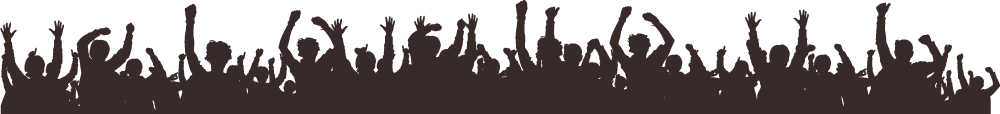
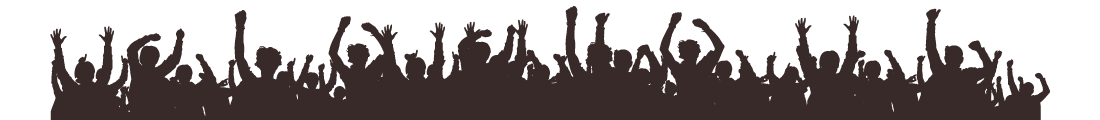
Parallax candy!

diff --git a/public/javascripts/jquery.jparallax.min.js b/public/javascripts/jquery.jparallax.min.js
@@ -1,0 +1,39 @@
+if (!jQuery.event.special.frame) {
+
+// jquery.events.frame.js
+// 1.1 - lite
+// Stephen Band
+//
+// Project home:
+// webdev.stephband.info/events/frame/
+//
+// Source:
+// http://github.com/stephband/jquery.event.frame
+
+(function(d,h){function i(a,b){function e(){f.frameCount++;a.call(f)}var f=this,g;this.frameDuration=b||25;this.frameCount=-1;this.start=function(){e();g=setInterval(e,this.frameDuration)};this.stop=function(){clearInterval(g);g=null}}function j(){var a=d.event.special.frame.handler,b=d.Event("frame"),e=this.array,f=e.length;for(b.frameCount=this.frameCount;f--;)a.call(e[f],b)}var c;if(!d.event.special.frame)d.event.special.frame={setup:function(a){if(c)c.array.push(this);else{c=new i(j,a&&a.frameDuration);
+c.array=[this];var b=setTimeout(function(){c.start();clearTimeout(b);b=null},0)}},teardown:function(){for(var a=c.array,b=a.length;b--;)if(a[b]===this){a.splice(b,1);break}if(a.length===0){c.stop();c=h}},handler:function(){d.event.handle.apply(this,arguments)}}})(jQuery);
+
+}
+
+// jquery.jparallax.js
+// 1.0
+// Stephen Band
+//
+// Project and documentation site:
+// webdev.stephband.info/jparallax/
+//
+// Repository:
+// github.com/stephband/jparallax
+//
+// Dependencies:
+// jquery.event.frame
+
+(function(l,t){function y(i){return this.lib[i]}function q(i){return typeof i==="boolean"?i:!!parseFloat(i)}function r(i,b){var k=[q(i.xparallax),q(i.yparallax)];this.ontarget=false;this.decay=i.decay;this.pointer=b||[0.5,0.5];this.update=function(e,a){if(this.ontarget)this.pointer=e;else if((!k[0]||u(e[0]-this.pointer[0])<a[0])&&(!k[1]||u(e[1]-this.pointer[1])<a[1])){this.ontarget=true;this.pointer=e}else{a=[];for(var g=2;g--;)if(k[g])a[g]=e[g]+this.decay*(this.pointer[g]-e[g]);this.pointer=a}}}
+function z(i,b){var k=this,e=i instanceof l?i:l(i),a=[q(b.xparallax),q(b.yparallax)],g=0,d;this.pointer=[0,0];this.active=false;this.activeOutside=b&&b.activeOutside||false;this.update=function(h){var j=this.pos,c=this.size,f=[],m=2;if(g>0){if(g===2){g=0;if(d)h=d}for(;m--;)if(a[m]){f[m]=(h[m]-j[m])/c[m];f[m]=f[m]<0?0:f[m]>1?1:f[m]}this.active=true;this.pointer=f}else this.active=false};this.updateSize=function(){var h=e.width(),j=e.height();k.size=[h,j];k.threshold=[1/h,1/j]};this.updatePos=function(){var h=
+e.offset()||{left:0,top:0},j=parseInt(e.css("borderLeftWidth"))+parseInt(e.css("paddingLeft")),c=parseInt(e.css("borderTopWidth"))+parseInt(e.css("paddingTop"));k.pos=[h.left+j,h.top+c]};l(window).bind("resize",k.updateSize).bind("resize",k.updatePos);e.bind("mouseenter",function(){g=1}).bind("mouseleave",function(h){g=2;d=[h.pageX,h.pageY]});this.updateSize();this.updatePos()}function A(i,b){var k=[],e=[],a=[],g=[];this.update=function(d){for(var h=[],j,c,f=2,m={};f--;)if(e[f]){h[f]=e[f]*d[f]+a[f];
+if(k[f]){j=g[f];c=h[f]*-1}else{j=h[f]*100+"%";c=h[f]*this.size[f]*-1}if(f===0){m.left=j;m.marginLeft=c}else{m.top=j;m.marginTop=c}}i.css(m)};this.setParallax=function(d,h,j,c){d=[d||b.xparallax,h||b.yparallax];j=[j||b.xorigin,c||b.yorigin];for(c=2;c--;){k[c]=o.px.test(d[c]);if(typeof j[c]==="string")j[c]=o.percent.test(j[c])?parseFloat(j[c])/100:v[j[c]]||1;if(k[c]){e[c]=parseInt(d[c]);a[c]=j[c]*(this.size[c]-e[c]);g[c]=j[c]*100+"%"}else{e[c]=d[c]===true?1:o.percent.test(d[c])?parseFloat(d[c])/100:
+d[c];a[c]=e[c]?j[c]*(1-e[c]):0}}};this.getPointer=function(){for(var d=i.offsetParent(),h=i.position(),j=[],c=[],f=2;f--;){j[f]=k[f]?0:h[f===0?"left":"top"]/(d[f===0?"outerWidth":"outerHeight"]()-this.size[f]);c[f]=(j[f]-a[f])/e[f]}return c};this.setSize=function(d,h){this.size=[d||i.outerWidth(),h||i.outerHeight()]};this.setSize(b.width,b.height);this.setParallax(b.xparallax,b.yparallax,b.xorigin,b.yorigin)}function s(i){var b=l(this),k=i.data,e=b.data(n),a=k.port,g=k.mouse,d=e.mouse;if(k.timeStamp!==
+i.timeStamp){k.timeStamp=i.timeStamp;a.update(w);if(a.active||!g.ontarget)g.update(a.pointer,a.threshold)}if(d){d.update(e.freeze?e.freeze.pointer:a.pointer,a.threshold);if(d.ontarget){delete e.mouse;e.freeze&&b.unbind(p).addClass(k.freezeClass)}g=d}else g.ontarget&&!a.active&&b.unbind(p);e.layer.update(g.pointer)}var n="parallax",x={mouseport:"body",xparallax:true,yparallax:true,xorigin:0.5,yorigin:0.5,decay:0.66,frameDuration:30,freezeClass:"freeze"},v={left:0,top:0,middle:0.5,center:0.5,right:1,
+bottom:1},o={px:/^\d+\s?px$/,percent:/^\d+\s?%$/},p="frame."+n,u=Math.abs,w=[0,0];y.lib=v;l.fn[n]=function(i){var b=l.extend({},l.fn[n].options,i),k=arguments,e=this;console.log(b.mouseport);if(!(b.mouseport instanceof l))b.mouseport=l(b.mouseport);console.log(b.mouseport);b.port=new z(b.mouseport,b);b.mouse=new r(b);b.mouseport.bind("mouseenter",function(){b.mouse.ontarget=false;e.each(function(){var a=l(this);a.data(n).freeze||a.bind(p,b,s)})});return e.bind("freeze",function(a){var g=l(this),d=
+g.data(n),h=d.mouse||d.freeze||b.mouse,j=o.percent.exec(a.x)?parseFloat(a.x.replace(/%$/,""))/100:a.x||h.pointer[0],c=o.percent.exec(a.y)?parseFloat(a.y.replace(/%$/,""))/100:a.y||h.pointer[1];a=a.decay;d.freeze={pointer:[j,c]};d.mouse=new r(b,h.pointer);if(a!==t)d.mouse.decay=a;g.bind(p,b,s)}).bind("unfreeze",function(a){var g=l(this),d=g.data(n);a=a.decay;var h;if(d.freeze){h=d.mouse?d.mouse.pointer:d.freeze.pointer;d.mouse=new r(b);d.mouse.pointer=h;if(a!==t)d.mouse.decay=a;delete d.freeze;g.removeClass(x.freezeClass).bind(p,
+b,s)}}).each(function(a){var g=l(this);a=k[a+1]?l.extend({},b,k[a+1]):b;var d=new A(g,a);g.data(n,{layer:d,mouse:new r(a,d.getPointer())})})};l.fn[n].options=x;l(document).ready(function(){l(document).mousemove(function(i){w=[i.pageX,i.pageY]})})})(jQuery);

diff --git a/public/stylesheets/base.css b/public/stylesheets/base.css
@@ -108,11 +108,24 @@ body {
       #header-wrapper #header p#ruby-link a {
         padding-left: 22px;
         background: url("/images/icon-browser.png") no-repeat; }
-  #header-wrapper #crowd-header {
+  #header-wrapper #crowd-header-viewport {
+    position: relative;
+    overflow: hidden;
     margin: 0 auto;
-    width: 1075px;
-    height: 144px;
-    background: url("/images/crowd-header.png") center no-repeat; }
+    width: 1070px;
+    height: 140px; }
+    #header-wrapper #crowd-header-viewport #crowd-header, #header-wrapper #crowd-header-viewport #crowd-header2 {
+      position: absolute; }
+    #header-wrapper #crowd-header-viewport #crowd-header {
+      width: 1075px;
+      height: 144px;
+      background: url("/images/crowd-header.png") center no-repeat;
+      z-index: 3; }
+    #header-wrapper #crowd-header-viewport #crowd-header2 {
+      width: 1100px;
+      height: 160px;
+      background: url("/images/crowd-header2.png") center no-repeat;
+      z-index: 2; }
 
 #hero {
   background: #392a2a; }
@@ -232,7 +245,7 @@ body {
 
 #footer {
   text-align: center;
-  background: url("/images/bg-footer-gradient.jpg") top repeat-x; }
+  background: url("/images/bg-footer-gradient.jpg") bottom repeat-x; }
   #footer #footer-logo {
     margin: 0 auto 15px auto;
     width: 20px;
@@ -243,11 +256,25 @@ body {
     padding-bottom: 5px; }
     #footer p#copyright {
       font-size: 14px; }
-  #footer #crowd-footer {
-    width: 1000px;
-    height: 114px;
+  #footer #crowd-footer-viewport {
+    position: relative;
+    overflow: hidden;
+    width: 1090px;
+    height: 116px;
     margin-top: 20px;
-    background: url("/images/crowd-footer.png") center no-repeat; }
+    margin-left: -50px; }
+    #footer #crowd-footer-viewport #crowd-footer, #footer #crowd-footer-viewport #crowd-footer2 {
+      position: absolute; }
+    #footer #crowd-footer-viewport #crowd-footer {
+      width: 1100px;
+      height: 120px;
+      background: url("/images/crowd-footer.png") center no-repeat;
+      z-index: 3; }
+    #footer #crowd-footer-viewport #crowd-footer2 {
+      width: 1110px;
+      height: 125px;
+      background: url("/images/crowd-footer2.png") center no-repeat;
+      z-index: 2; }
 
 /*------------------------------
  *  portrait slider

diff --git a/app/stylesheets/base.sass b/app/stylesheets/base.sass
@@ -71,11 +71,24 @@ body
       a
         padding-left: 22px
         background: url("/images/icon-browser.png") no-repeat
-  #crowd-header
+  #crowd-header-viewport
+    position: relative
+    overflow: hidden
     margin: 0 auto
-    width: 1075px
-    height: 144px
-    background: url("/images/crowd-header.png") center no-repeat
+    width: 1070px
+    height: 140px
+    #crowd-header, #crowd-header2
+      position: absolute
+    #crowd-header
+      width: 1075px
+      height: 144px
+      background: url("/images/crowd-header.png") center no-repeat
+      z-index: 3
+    #crowd-header2
+      width: 1100px
+      height: 160px
+      background: url("/images/crowd-header2.png") center no-repeat
+      z-index: 2
 
 #hero
   h2
@@ -200,7 +213,7 @@ body
 
 #footer
   text-align: center
-  background: url("/images/bg-footer-gradient.jpg") top repeat-x
+  background: url("/images/bg-footer-gradient.jpg") bottom repeat-x
   #footer-logo
     margin: 0 auto 15px auto
     width: 20px
@@ -211,11 +224,25 @@ body
     padding-bottom: 5px
     &#copyright
       font-size: 14px
-  #crowd-footer
-    width: 1000px
-    height: 114px
+  #crowd-footer-viewport
+    position: relative
+    overflow: hidden
+    width: 1090px
+    height: 116px
     margin-top: 20px
-    background: url("/images/crowd-footer.png") center no-repeat
+    margin-left: -50px
+    #crowd-footer, #crowd-footer2
+      position: absolute
+    #crowd-footer
+      width: 1100px
+      height: 120px
+      background: url("/images/crowd-footer.png") center no-repeat
+      z-index: 3
+    #crowd-footer2
+      width: 1110px
+      height: 125px
+      background: url("/images/crowd-footer2.png") center no-repeat
+      z-index: 2
 
 /*------------------------------
  *  portrait slider

diff --git a/public/javascripts/application.js b/public/javascripts/application.js
@@ -1,4 +1,13 @@
 $(function() {
+  $("#crowd-header, #crowd-header2").parallax({
+    mouseport: $("#crowd-header-viewport"),
+    decay: 0
+  });
+  $("#crowd-footer, #crowd-footer2").parallax({
+    mouseport: $("#crowd-footer-viewport"),
+    decay: 0
+  });
+
   $("ul.social li a, ul.bio-langs li a").hover(function() {
     $(this).fadeTo(100, 1);
   }, function() {
